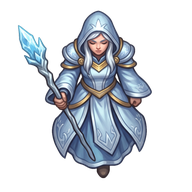
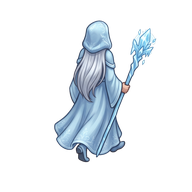
Гоблин, Гном, Чародейка, Минотавр, Некромант перерисованы со спины — больше не ходят задом наперёд

diff --git a/sw.js b/sw.js
@@ -1,5 +1,5 @@
 // Офлайн-кэш: страница — сначала сеть (чтобы приходили обновления), картинки — сначала кэш
-const V='sshibka-v7';
+const V='sshibka-v8';
 const FILES=['./','./index.html','./manifest.webmanifest','./icon-192.png','./icon-512.png','./icon-maskable.png','./apple-touch-icon.png',"./img/b_forest.jpg","./img/b_plain.jpg","./img/b_rock.jpg","./img/b_well.jpg","./img/bg.jpg","./img/bn_life.png","./img/bn_power.png","./img/bn_shield.png","./img/bn_speed.png","./img/fx_arcane.png","./img/fx_bolt.png","./img/fx_bomb.png","./img/fx_boom.png","./img/fx_burn.png","./img/fx_dark.png","./img/fx_feather.png","./img/fx_fire.png","./img/fx_holy.png","./img/fx_ice.png","./img/fx_poison.png","./img/fx_roots.png","./img/fx_skull.png","./img/fx_web.png","./img/g_forest.jpg","./img/g_grass.jpg","./img/g_lava.jpg","./img/g_rock.jpg","./img/g_swamp.jpg","./img/g_well.jpg","./img/p_boulder.png","./img/p_oak.png","./img/p_pine.png","./img/p_portal.png","./img/p_rocks.png","./img/p_spring.png","./img/p_totem.png","./img/p_trap.png","./img/u_arhangel.png","./img/u_arhangel_a.png","./img/u_arhangel_w1.png","./img/u_arhangel_w2.png","./img/u_charodeyka.png","./img/u_charodeyka_a.png","./img/u_charodeyka_w1.png","./img/u_charodeyka_w2.png","./img/u_demon.png","./img/u_demon_a.png","./img/u_demon_w1.png","./img/u_demon_w2.png","./img/u_edinorog.png","./img/u_edinorog_a.png","./img/u_edinorog_w1.png","./img/u_edinorog_w2.png","./img/u_elemental.png","./img/u_elemental_a.png","./img/u_elemental_w1.png","./img/u_elemental_w2.png","./img/u_elf.png","./img/u_elf_a.png","./img/u_elf_w1.png","./img/u_elf_w2.png","./img/u_ent.png","./img/u_ent_a.png","./img/u_ent_w1.png","./img/u_ent_w2.png","./img/u_feniks.png","./img/u_feniks_a.png","./img/u_feniks_w1.png","./img/u_feniks_w2.png","./img/u_garpun.png","./img/u_garpun_a.png","./img/u_garpun_w1.png","./img/u_garpun_w2.png","./img/u_gnom.png","./img/u_gnom_a.png","./img/u_gnom_w1.png","./img/u_gnom_w2.png","./img/u_goblin.png","./img/u_goblin_a.png","./img/u_goblin_w1.png","./img/u_goblin_w2.png","./img/u_grifon.png","./img/u_grifon_a.png","./img/u_grifon_w1.png","./img/u_grifon_w2.png","./img/u_luchnica.png","./img/u_luchnica_a.png","./img/u_luchnica_w1.png","./img/u_luchnica_w2.png","./img/u_minotavr.png","./img/u_minotavr_a.png","./img/u_minotavr_w1.png","./img/u_minotavr_w2.png","./img/u_naga.png","./img/u_naga_a.png","./img/u_naga_w1.png","./img/u_naga_w2.png","./img/u_nekromant.png","./img/u_nekromant_a.png","./img/u_nekromant_w1.png","./img/u_nekromant_w2.png","./img/u_paladin.png","./img/u_paladin_a.png","./img/u_paladin_w1.png","./img/u_paladin_w2.png","./img/u_pauk.png","./img/u_pauk_a.png","./img/u_pauk_w1.png","./img/u_pauk_w2.png","./img/u_pepelnik.png","./img/u_pepelnik_a.png","./img/u_pepelnik_w1.png","./img/u_pepelnik_w2.png","./img/u_perevertysh.png","./img/u_perevertysh_a.png","./img/u_perevertysh_w1.png","./img/u_perevertysh_w2.png","./img/u_ratnik.png","./img/u_ratnik_a.png","./img/u_ratnik_w1.png","./img/u_ratnik_w2.png","./img/u_shaman.png","./img/u_shaman_a.png","./img/u_shaman_w1.png","./img/u_shaman_w2.png","./img/u_strazh.png","./img/u_strazh_a.png","./img/u_strazh_w1.png","./img/u_strazh_w2.png","./img/u_svetoch.png","./img/u_svetoch_a.png","./img/u_svetoch_w1.png","./img/u_svetoch_w2.png","./img/u_troll.png","./img/u_troll_a.png","./img/u_troll_w1.png","./img/u_troll_w2.png","./img/u_viverna.png","./img/u_viverna_a.png","./img/u_viverna_w1.png","./img/u_viverna_w2.png","./img/u_vladyka.png","./img/u_vladyka_a.png","./img/u_vladyka_w1.png","./img/u_vladyka_w2.png","./img/u_zhrica.png","./img/u_zhrica_a.png","./img/u_zhrica_w1.png","./img/u_zhrica_w2.png"];
 self.addEventListener('install',e=>{e.waitUntil(caches.open(V).then(c=>c.addAll(FILES)).then(()=>self.skipWaiting()))});
 self.addEventListener('activate',e=>{e.waitUntil(caches.keys().then(ks=>Promise.all(ks.filter(k=>k!==V).map(k=>caches.delete(k)))).then(()=>self.clients.claim()))});

diff --git a/index.html b/index.html
@@ -284,7 +284,7 @@ function loadImg(k,src){const i=new Image();i.src=src;IMG[k]=i}
 const FRAMES=['','_w1','_w2','_a'];
 Object.keys(TYPES).forEach(k=>FRAMES.forEach(fr=>loadImg('u_'+k+fr,`img/u_${k}${fr}.png`)));
 // во сколько раз кадр шире «стоящей» фигуры (кадры выровнены по общему якорю)
-const SPRK={arhangel:1,demon:1.15,paladin:1.154,gnom:1.296,edinorog:1.12,charodeyka:1.073,nekromant:1.421,minotavr:1,pauk:1.276,elemental:1,goblin:1.223,elf:1.109,ent:1.195,feniks:1.003,naga:1.27,perevertysh:1.228,ratnik:1.133,luchnica:1,grifon:1.073,zhrica:1.26,strazh:1.06,svetoch:1.104,pepelnik:1.11,garpun:1.286,viverna:1.017,shaman:1.043,troll:1.067,vladyka:1.067};
+const SPRK={arhangel:1,demon:1.15,paladin:1.154,gnom:1.048,edinorog:1.12,charodeyka:1.029,nekromant:1.211,minotavr:1.11,pauk:1.276,elemental:1,goblin:1.242,elf:1.109,ent:1.195,feniks:1.003,naga:1.27,perevertysh:1.228,ratnik:1.133,luchnica:1,grifon:1.073,zhrica:1.26,strazh:1.06,svetoch:1.104,pepelnik:1.11,garpun:1.286,viverna:1.017,shaman:1.043,troll:1.067,vladyka:1.067};
 ['oak','pine','boulder','rocks','portal','trap','totem','spring'].forEach(k=>loadImg('p_'+k,`img/p_${k}.png`));
 ['grass','forest','rock','swamp','lava','well'].forEach(k=>loadImg('g_'+k,`img/g_${k}.jpg`));
 ['fire','arcane','holy','bolt','skull','boom','poison','burn','roots','feather','ice','dark','web','bomb'].forEach(k=>loadImg('fx_'+k,`img/fx_${k}.png`));
